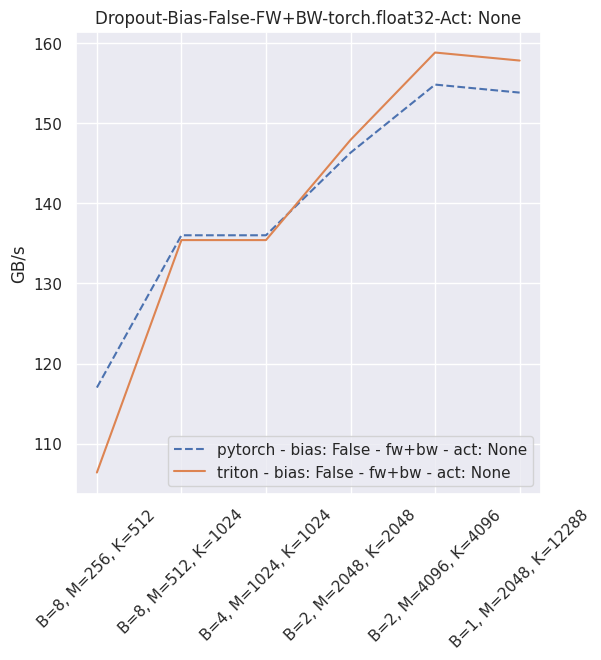
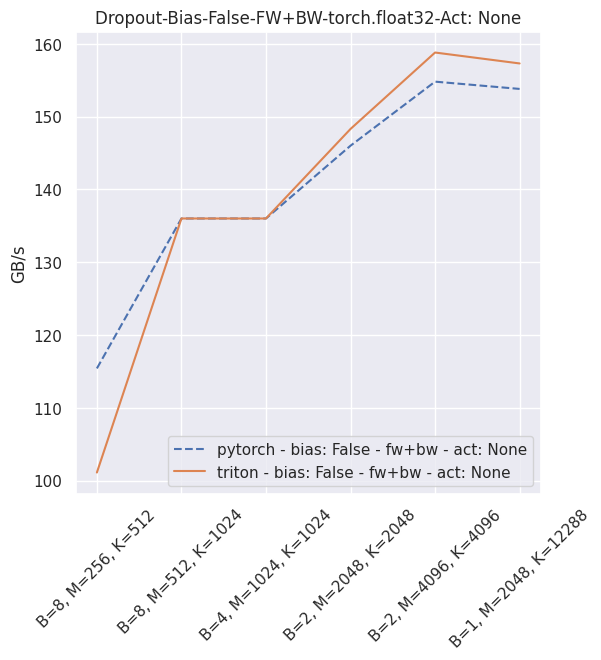
Adding a dedicated sum kernel when on a strided dimension

diff --git a/tests/test_triton_basics.py b/tests/test_triton_basics.py
@@ -4,13 +4,30 @@
 # LICENSE file in the root directory of this source tree.
 
 
+import pytest
 import torch
+
+SHAPES = [
+    (384, 128),
+    (34, 128),
+    (8, 128),
+    (8, 512),
+    (4, 384),
+    (4, 1024),
+    (2, 2048),
+    (2, 4096),
+    (2, 4096),
+    (1, 12288),
+]
+
 
 _triton_available = torch.cuda.is_available()
 if _triton_available:
     try:
         import triton
         import triton.language as tl
+
+        from xformers.triton.sum_strided import sum_2d_dim_0
 
     except (ImportError, ModuleNotFoundError):
         _triton_available = False
@@ -39,7 +56,7 @@ if _triton_available:
         # Compute variance
         x_mean = tl.sum(x, axis=0) / N
         x_zm = x - x_mean
-        x_zm = tl.where(cols < N, x_zm, 0.0)  # THIS SHOULD NOT BE NEEDED
+        x_zm = tl.where(cols < N, x_zm, 0.0)
         x_var = tl.sum(x_zm * x_zm, axis=0) / N
         tl.store(Mean + row, x_mean)
         tl.store(Var + row, x_var)
@@ -88,3 +105,26 @@ if _triton_available:
 
         assert torch.allclose(mean, t_mean, rtol=1e-1)
         assert torch.allclose(var, t_var, rtol=1e-1)
+
+    @pytest.mark.parametrize("shape", SHAPES)
+    @pytest.mark.parametrize("dtype", [torch.float16, torch.float32])
+    def test_sum_strided(shape, dtype):
+        torch.random.manual_seed(0)
+        a = torch.rand(shape, device=torch.device("cuda"), dtype=dtype)
+
+        torch_sum = torch.sum(a, dim=0)
+        triton_sum = sum_2d_dim_0(a)
+        assert torch.allclose(torch_sum, triton_sum)
+
+    def test_sum_strided_asserts():
+        torch.random.manual_seed(0)
+        a = torch.rand((128, 256), device=torch.device("cuda"), dtype=torch.float16)
+
+        with pytest.raises(AssertionError):
+            # This kernel is not useful in that case, assert to prevent misuse
+            sum_2d_dim_0(a.transpose(1, 0))
+
+        a = torch.rand((3, 128, 256), device=torch.device("cuda"), dtype=torch.float16)
+        with pytest.raises(AssertionError):
+            # This kernel expects 2D tensors, assert to prevent misuse
+            sum_2d_dim_0(a)

diff --git a/xformers/triton/k_sum.py b/xformers/triton/k_sum.py
@@ -1,0 +1,55 @@
+# Copyright (c) Facebook, Inc. and its affiliates. All rights reserved.
+#
+# This source code is licensed under the BSD license found in the
+# LICENSE file in the root directory of this source tree.
+
+import triton
+import triton.language as tl
+
+
+# fmt: off
+@triton.autotune(
+    configs=[
+        triton.Config({"BLOCK_N": 4}, num_warps=1),
+        triton.Config({"BLOCK_N": 8}, num_warps=2),
+        triton.Config({"BLOCK_N": 16}, num_warps=4),
+        triton.Config({"BLOCK_N": 32}, num_warps=8),
+        triton.Config({"BLOCK_N": 64}, num_warps=16),
+    ],
+    key=["M", "N"],
+)
+@triton.heuristics(
+    values={"BLOCK_SIZE": lambda *args, **_: triton.next_power_of_2(args[-2])}
+)
+@triton.jit
+def k_sum_0(
+    Y,
+    X,
+    stride_xm,
+    M,
+    N,
+    **meta,  # extra parameters which can be automatically filled in given some heuristics
+):
+    # fmt: om
+
+    """
+    Sum a 2d tensor over the first (strided) dimension
+    """
+
+    # row indices. We'll reduce over this dimension
+    m = tl.arange(0, meta["BLOCK_SIZE"])
+
+    # To get some extra parallelization, we can try to handle several columns in the same thread block
+    n = tl.program_id(0)
+    rn = n * meta["BLOCK_N"] + tl.arange(0, meta["BLOCK_N"])
+
+    # the memory address of all the elements that we want to load can be computed as follows
+    x_ptrs = X + m[:, None] * stride_xm + rn[None, :]
+
+    # load input data; pad out-of-bounds elements with 0
+    # NOTE: make sure to accumulate in fp32 to prevent a trivial overflow
+    mask = (m[:, None] < M) & (rn[None, :] < N)
+    x = tl.load(x_ptrs, mask=mask, other=0.0).to(tl.float32)
+    x = tl.where(mask, x, 0.0)
+    x_sum = tl.sum(x, 0)
+    tl.store(Y + rn, x_sum, mask=rn < N)

diff --git a/xformers/triton/k_dropout.py b/xformers/triton/k_dropout.py
@@ -19,6 +19,54 @@ _k_configs = [
 ]
 
 
+def get_depth(*args, **_):
+    return triton.next_power_of_2(args[-1])
+
+
+# autotune: Triton will test out these configurations, and automatically pick the fastest one.
+# heuristic: add arguments to the kernel call automatically given some heuristics. These arguments are passed in "meta"
+# fmt: off
+@triton.autotune(
+    configs=[
+        triton.Config({"BLOCK_N": 1}, num_warps=4),
+        triton.Config({"BLOCK_N": 2}, num_warps=4),
+        triton.Config({"BLOCK_N": 8}, num_warps=4),
+        triton.Config({"BLOCK_N": 1}, num_warps=8),
+        triton.Config({"BLOCK_N": 2}, num_warps=8),
+        triton.Config({"BLOCK_N": 8}, num_warps=8),
+    ],
+    key=["M", "N"],
+)
+@triton.heuristics(values={"depth": get_depth})
+@triton.jit
+def k_sum_0(
+    Y, X,
+    stride_xm,
+    M, N,
+    **meta,  # extra parameters which can be automatically filled in given some heuristics
+):
+    # fmt: om
+
+    """
+    Sum a 2d tensor over the first dimension
+    """
+
+    n = tl.program_id(0)
+
+    # row indices
+    m = tl.arange(0, meta["depth"])
+    rn = n * meta["BLOCK_N"] + tl.arange(0, meta["BLOCK_N"])
+
+    # the memory address of all the elements that we want to load can be computed as follows
+    x_ptrs = X + m[:, None] * stride_xm + rn[None, :]
+
+    # load input data; pad out-of-bounds elements with 0
+    x = tl.load(x_ptrs, mask=(m[:, None] < M) & (rn[None, :] < N), other=0.)
+
+    x_sum = tl.sum(x, 0)
+    tl.store(Y + rn, x_sum, mask=rn < N)
+
+
 @triton.jit
 def _drop_and_scale(SEEDS, row, p, offsets, x):
     # randomly prune the weights

diff --git a/xformers/triton/sum_strided.py b/xformers/triton/sum_strided.py
@@ -1,0 +1,34 @@
+# Copyright (c) Facebook, Inc. and its affiliates. All rights reserved.
+#
+# This source code is licensed under the BSD license found in the
+# LICENSE file in the root directory of this source tree.
+
+
+import torch
+import triton
+
+from xformers.triton.k_sum import k_sum_0
+
+
+def sum_2d_dim_0(x: torch.Tensor):
+    """
+    Sum a 2D tensor across the first dimension
+    """
+
+    out = torch.empty(x.shape[1], device=x.device, dtype=x.dtype)
+
+    assert (
+        x.ndim == 2
+    ), "This is a very specific kernel, only for 2-dim tensors and summing along dim 0"
+
+    assert x.stride(1) == 1, (
+        "We're expecting x to be contiguous along dim 1, and non contiguous along dim 0.\n"
+        " You would probably be better served with torch.sum()"
+    )
+
+    def grid(meta):
+        return (triton.cdiv(x.shape[1], meta["BLOCK_N"]),)
+
+    k_sum_0[grid](out, x, x.stride(0), x.shape[0], x.shape[1])
+
+    return out

diff --git a/xformers/components/__init__.py b/xformers/components/__init__.py
@@ -13,7 +13,8 @@ from xformers.utils import import_all_modules
 from .activations import Activation, build_activation  # noqa
 from .attention import Attention, build_attention  # noqa
 from .in_proj_container import InProjContainer, InProjParams  # noqa
-from .multi_head_dispatch import MultiHeadDispatch, MultiHeadDispatchConfig  # noqa
+from .multi_head_dispatch import MultiHeadDispatch  # noqa
+from .multi_head_dispatch import MultiHeadDispatchConfig
 from .residual import LayerNormStyle, PostNorm, PreNorm, Residual  # noqa
 
 # automatically import any Python files in the directory

diff --git a/xformers/triton/dropout.py b/xformers/triton/dropout.py
@@ -19,6 +19,7 @@ from xformers.triton.k_activations import (
     get_triton_activation_kernel,
 )
 from xformers.triton.k_dropout import k_dropout_bw, k_dropout_fw
+from xformers.triton.sum_strided import sum_2d_dim_0
 
 
 # Helper to handle the SPMD launch grid and error cases
@@ -104,7 +105,7 @@ class _dropout(torch.autograd.Function):
         # fmt: on
 
         if ctx.trainable_bias:
-            grad_bias: Optional[torch.Tensor] = torch.sum(grad_in, dim=0)
+            grad_bias: Optional[torch.Tensor] = sum_2d_dim_0(grad_in)
         else:
             grad_bias = None
 

diff --git a/tests/test_triton_dropout.py b/tests/test_triton_dropout.py
@@ -25,7 +25,7 @@ if _triton_available:
         )
         _triton_available = False
 
-# Testing odd shapes on purpose
+# Testing odd (non-power-of-two for instance) shapes on purpose
 SHAPES = [
     (384, 128),
     (8, 384, 128),
